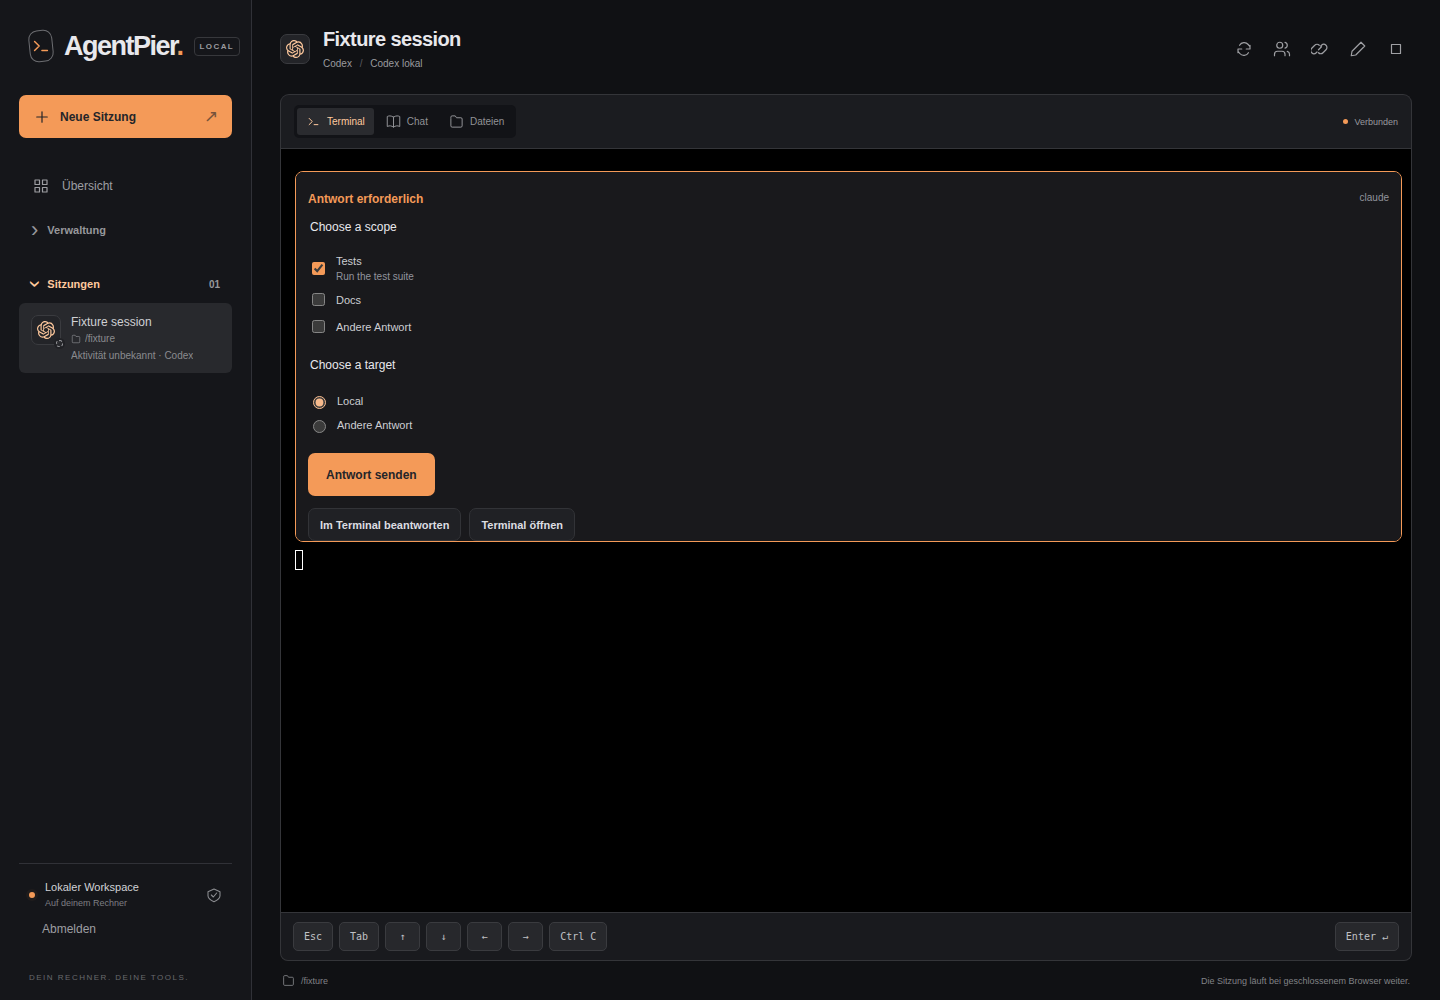
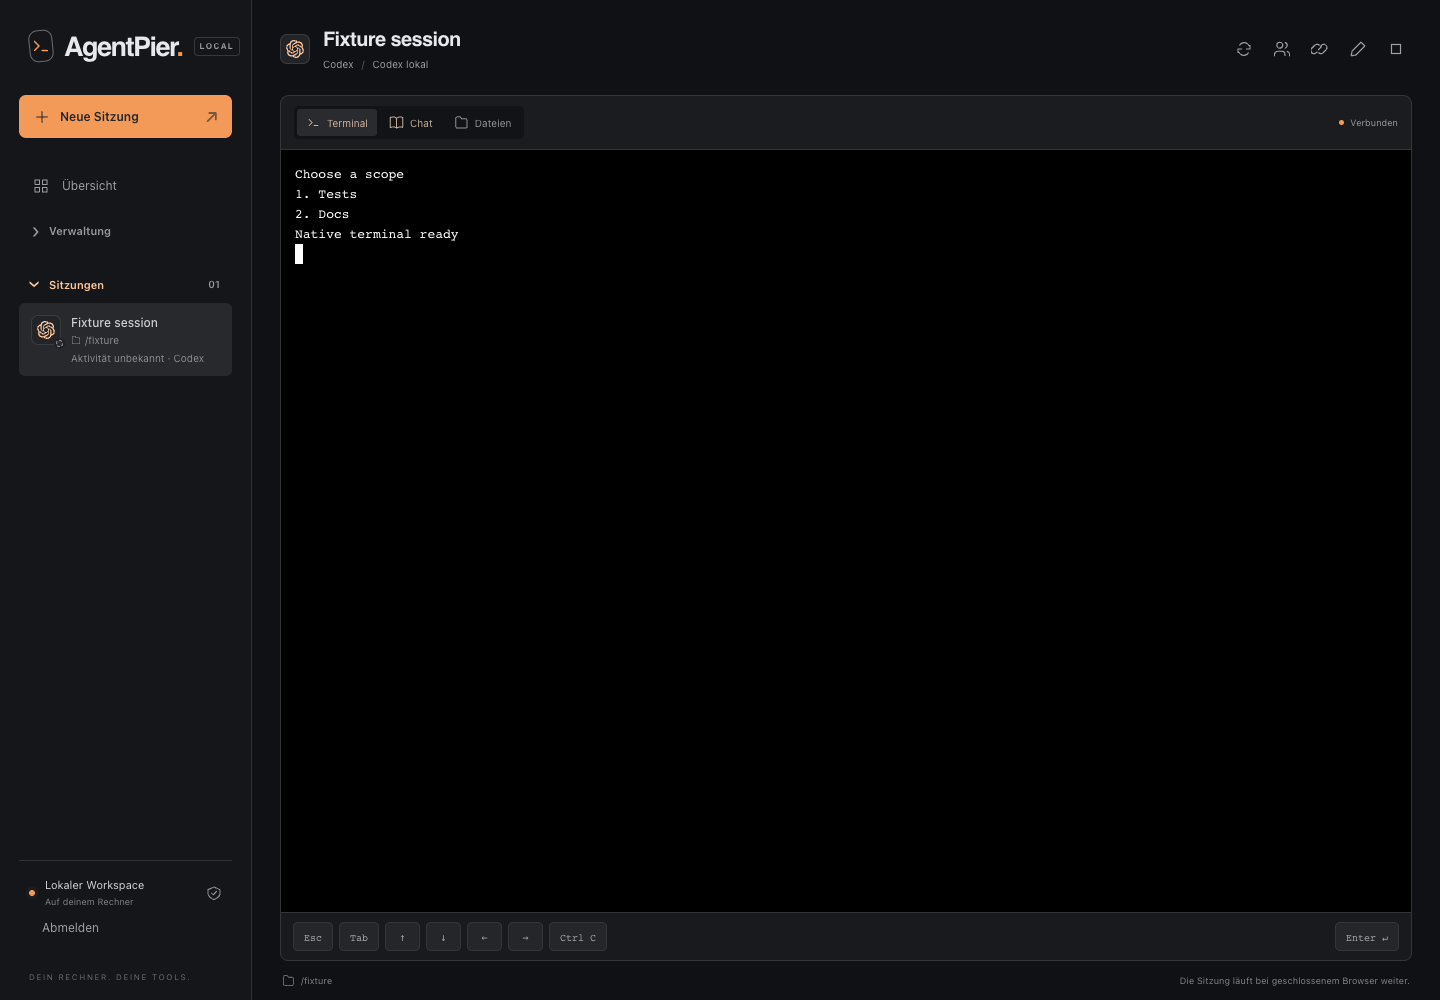
fix: keep native forms in chat and preserve scroll following (#94)
* fix: keep native request forms in chat

* chore: prepare release 1.17.12

* fix: preserve chat following before queued scroll events

---------

diff --git a/tests/browser/native-requests.spec.js b/tests/browser/native-requests.spec.js
@@ -174,48 +174,78 @@ for (const viewport of [
   { width: 1440, height: 1000 },
   { width: 390, height: 500 },
 ]) {
-  test(`Claude questions can be answered in Terminal at ${viewport.width}px`, async ({
+  const language = viewport.width === 390 ? "en" : "de";
+  test(`native question forms stay in Chat at ${viewport.width}px (${language})`, async ({
     page,
   }, testInfo) => {
+    await page.addInitScript((value) => {
+      localStorage.setItem("agentpier-language", value);
+    }, language);
     await page.setViewportSize(viewport);
-    await page.routeWebSocket("**/api/sessions/*/terminal", (socket) => {
-      socket.send(JSON.stringify({ type: "output", data: "Fixture terminal ready\r\n" }));
-    });
     const state = await operationsFixture(page);
+    const inputs = [];
+    await page.routeWebSocket("**/api/sessions/*/terminal", (socket) => {
+      socket.onMessage((message) => {
+        const data = JSON.parse(message);
+        if (data.type === "input") inputs.push(data.data);
+      });
+      socket.send(
+        JSON.stringify({
+          type: "output",
+          data: "Choose a scope\r\n1. Tests\r\n2. Docs\r\nNative terminal ready\r\n",
+        }),
+      );
+    });
+    state.requests = [{ ...request, source: "claude" }];
     await page.goto(baseURL + "/sessions/fixture-session/terminal");
     await expect(page.locator(".terminal-mount .xterm")).toBeVisible();
-    state.requests = [{ ...request, source: "claude" }];
-    const panel = page.locator(".terminal-pane .native-requests");
-    await expect(panel.getByText("Choose a scope", { exact: true })).toBeVisible();
+    await expect(page.locator(".xterm-rows")).toContainText("Native terminal ready");
+    await expect(page.locator(".native-requests")).toBeHidden();
+    await expect(page.locator(".chat-container")).toBeHidden();
+    const fullTerminal = await page.locator(".terminal-mount").boundingBox();
     await page.getByRole("button", { name: "Chat", exact: true }).click();
-    await expect(
-      page
-        .locator(".chat-container .native-requests")
-        .getByText("Choose a scope", { exact: true }),
-    ).toBeVisible();
-    await page.getByRole("button", { name: "Terminal", exact: true }).click();
+    const panel = page.locator(".chat-container .native-requests");
     await expect(panel.getByText("Choose a scope", { exact: true })).toBeVisible();
+    await expect(page.locator(".terminal-mount")).toBeHidden();
+    await page.getByRole("button", { name: "Terminal", exact: true }).click();
+    await expect(page.locator(".xterm-rows")).toContainText("Choose a scope");
+    await expect(page.locator(".native-requests")).toBeHidden();
+    await expect(page.locator(".chat-container")).toBeHidden();
     const terminal = await page.locator(".terminal-mount").boundingBox();
-    const bounds = await panel.boundingBox();
-    expect(terminal.height).toBeGreaterThan(40);
-    expect(bounds.y + bounds.height).toBeLessThanOrEqual(terminal.y);
+    expect(terminal.height).toBe(fullTerminal.height);
     expect(
       await page.evaluate(() => document.documentElement.scrollWidth),
     ).toBeLessThanOrEqual(viewport.width);
+    await page.locator(".xterm-helper-textarea").press("1");
+    await page.locator(".xterm-helper-textarea").press("Enter");
+    await expect.poll(() => inputs.join("")).toBe("1\r");
+    expect(state.calls.some((call) => call.path.endsWith("/answer"))).toBe(false);
+    await page.screenshot({ path: testInfo.outputPath("terminal-question.png") });
+    await page.getByRole("button", { name: "Chat", exact: true }).click();
+    await expect(panel.getByText("Choose a scope", { exact: true })).toBeVisible();
     await panel.getByLabel("Tests", { exact: true }).check();
-    await panel.getByRole("button", { name: "Nächste Frage", exact: true }).click();
+    await panel
+      .getByRole("button", {
+        name: language === "en" ? "Next question" : "Nächste Frage",
+        exact: true,
+      })
+      .click();
     await panel.getByLabel("Local", { exact: true }).check();
     await panel.evaluate((element) => {
       element.scrollTop = 0;
     });
-    await page.screenshot({ path: testInfo.outputPath("terminal-question.png") });
-    await panel.getByRole("button", { name: "Antwort senden", exact: true }).click();
+    await page.screenshot({ path: testInfo.outputPath("chat-question.png") });
+    await panel
+      .getByRole("button", {
+        name: language === "en" ? "Send answer" : "Antwort senden",
+        exact: true,
+      })
+      .click();
     await expect(panel).toHaveCount(0);
     expect(state.calls.find((call) => call.path.endsWith("/answer")).body).toEqual({
       expectedRevision: 1,
       answers: { "question-one": ["tests"], "question-two": ["local"] },
     });
-    await page.getByRole("button", { name: "Chat", exact: true }).click();
     await expect(page.getByText("Choose a scope", { exact: true })).toHaveCount(0);
   });
 }

diff --git a/web/features/terminal/TerminalView.jsx b/web/features/terminal/TerminalView.jsx
@@ -7,7 +7,6 @@ import React from "react";
 import useFileDrop from "../../components/useFileDrop.js";
 import useTerminalUploads from "./useTerminalUploads.js";
 import TerminalUploads from "./TerminalUploads.jsx";
-import RequestPanel from "../requests/RequestPanel.jsx";
 import { terminalViewCopy as copy } from "../../lib/i18n/messages/terminal.js";
 import useTerminalConnection from "./useTerminalConnection.js";
 export default function TerminalView({
@@ -38,16 +37,6 @@ export default function TerminalView({
       data-drop-hint={copy.dropHint}
     >
       <ErrorMessage error={error} />
-      {session.nativeRequests?.enabled &&
-        session.purpose !== "login" &&
-        session.tool !== "shell" &&
-        !session.pipeline?.headless && (
-          <RequestPanel
-            session={session}
-            active={mode === "terminal"}
-            openTerminal={() => focusRef.current?.()}
-          />
-        )}
       <TerminalUploads uploads={uploads} paste={paste} />
       <div
         className="terminal-mount"

diff --git a/web/features/chat/useChatController.js b/web/features/chat/useChatController.js
@@ -89,7 +89,9 @@ export default function useChatController({ active, session, request, onConnecti
     observer.observe(element);
     return () => observer.disconnect();
   }, [active]);
-  useEffect(() => {
+  useLayoutEffect(() => {
+    // Follow the committed transcript before a queued scroll event can mistake
+    // its new height for a user scrolling away from the bottom.
     if (active && stick.current && output.current)
       output.current.scrollTop = output.current.scrollHeight;
   }, [data, active, delivery.outbox, delivery.recent]);

diff --git a/web/features/requests/requests.css b/web/features/requests/requests.css
@@ -107,12 +107,6 @@
   overflow-y: auto;
 }
 
-.terminal-pane > .native-requests {
-  flex: 0 1 auto;
-  min-height: 0;
-  max-height: 50%;
-}
-
 .native-question-progress {
   font-weight: 600;
 }
